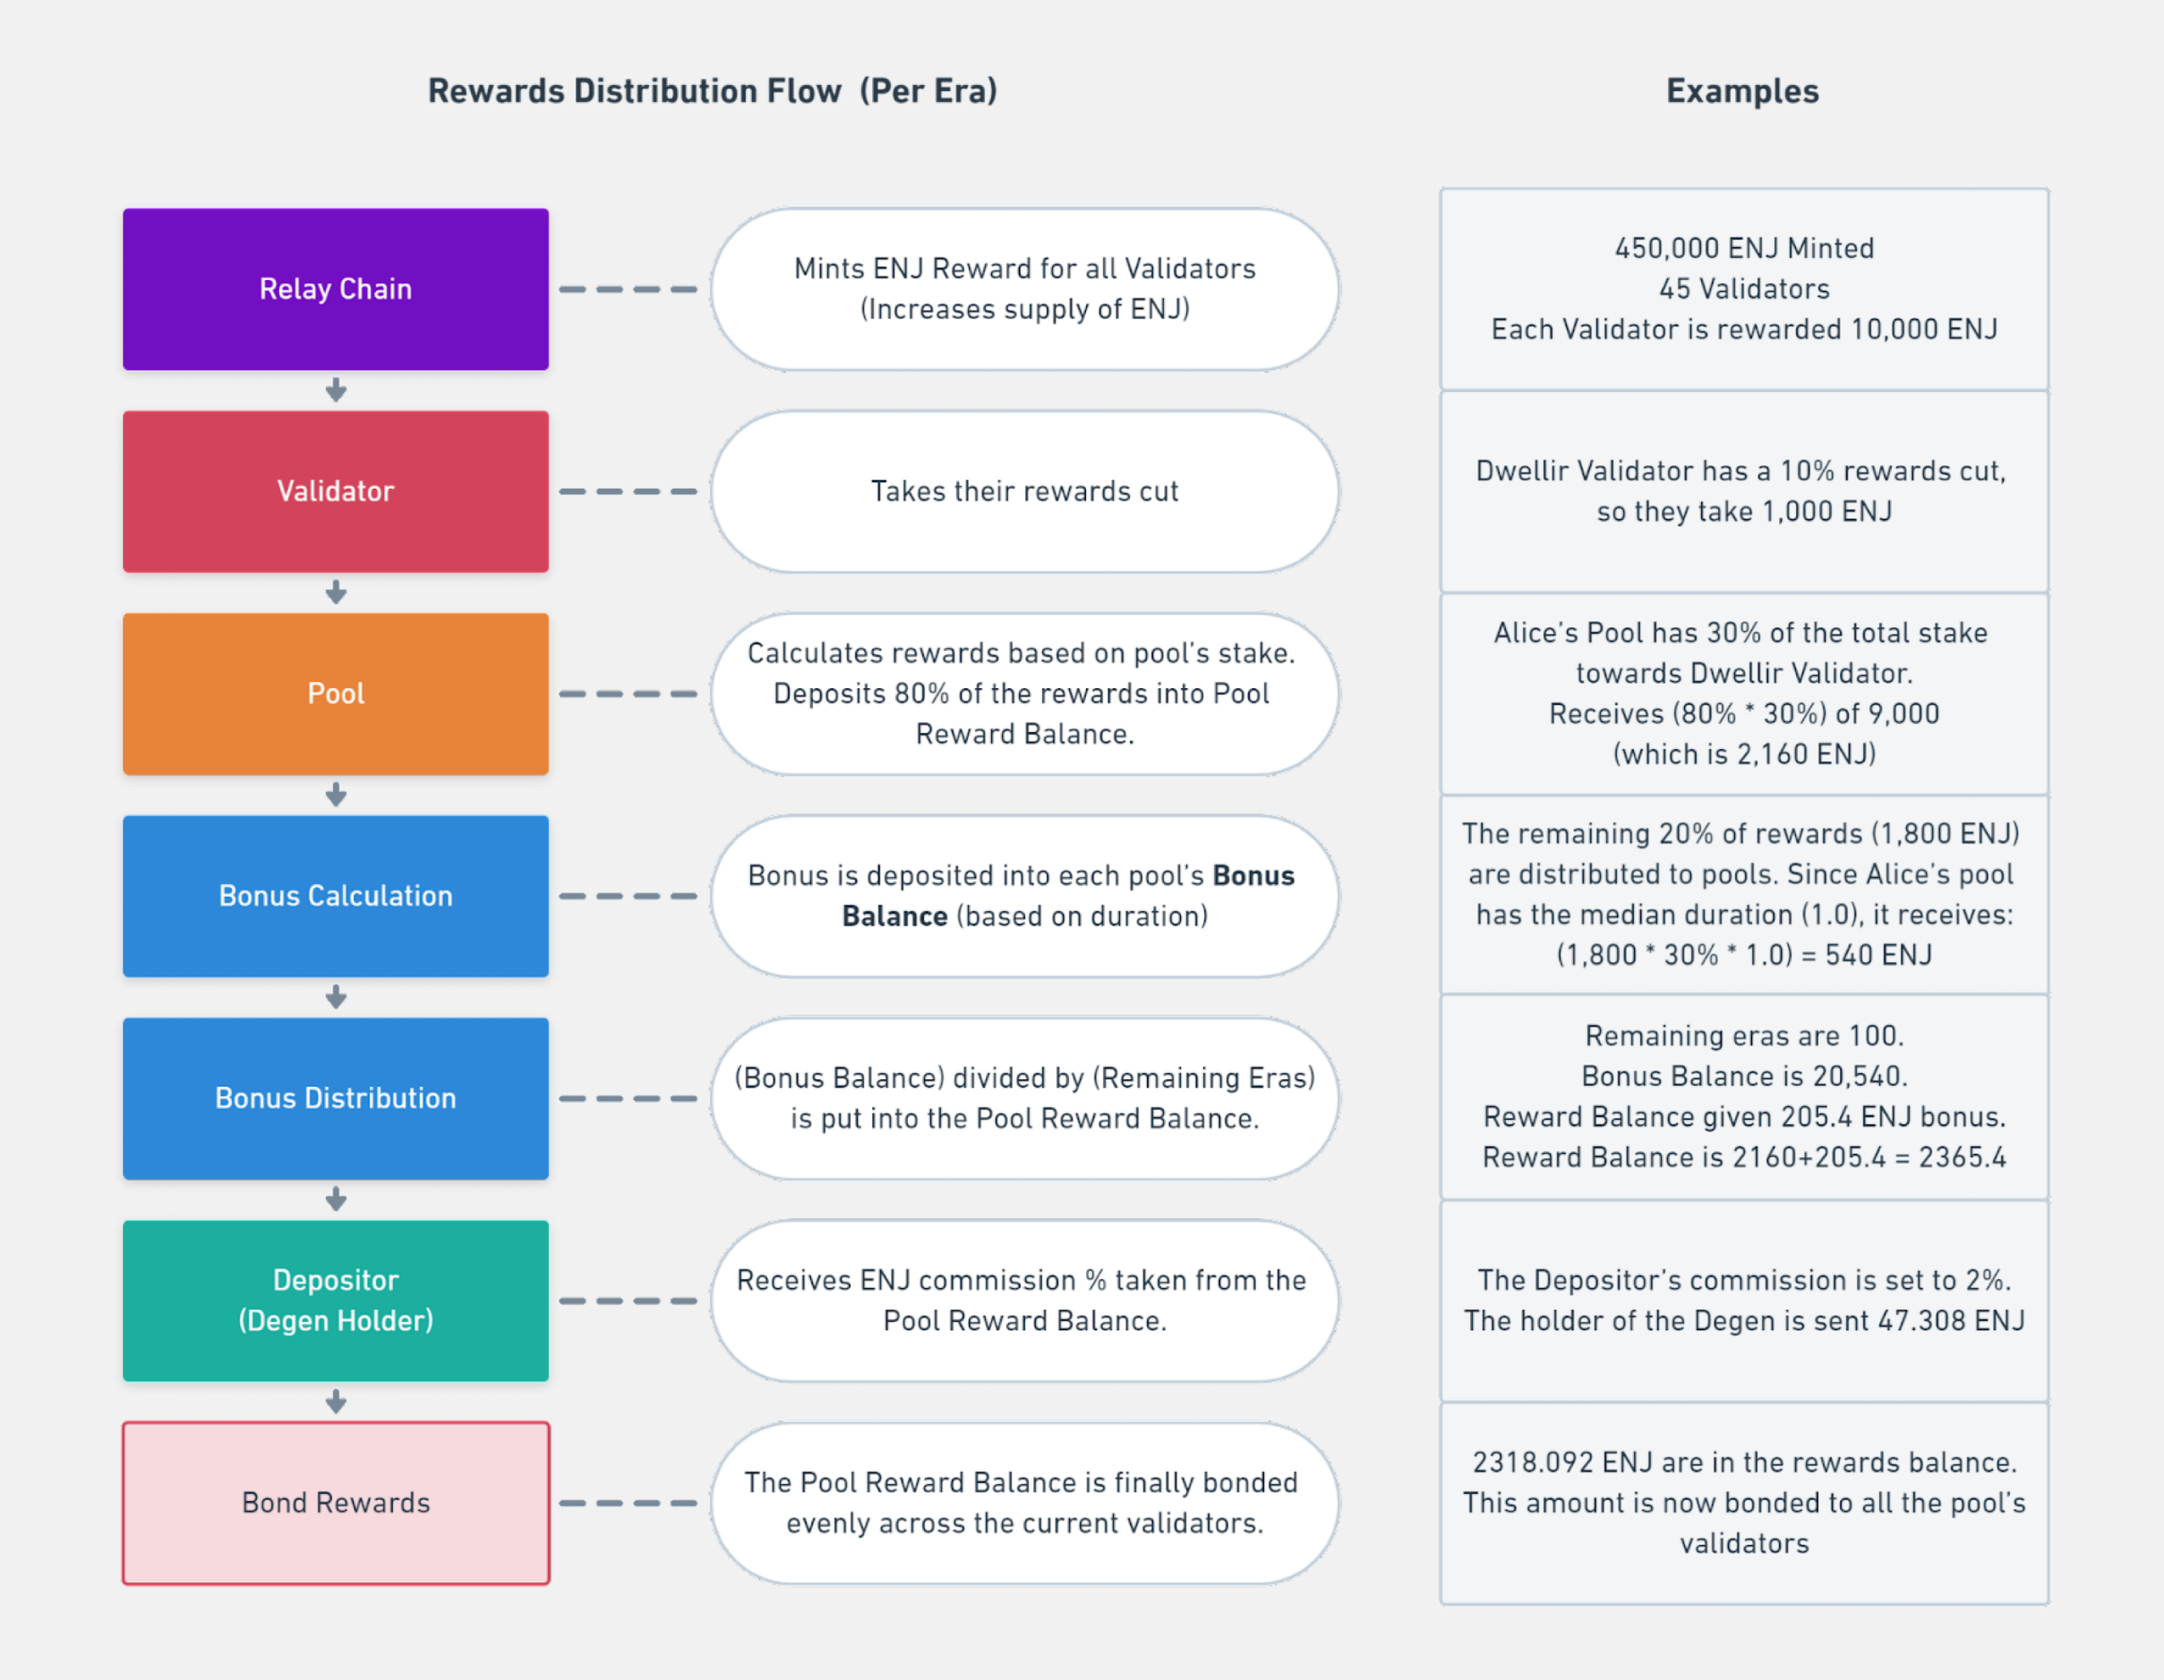
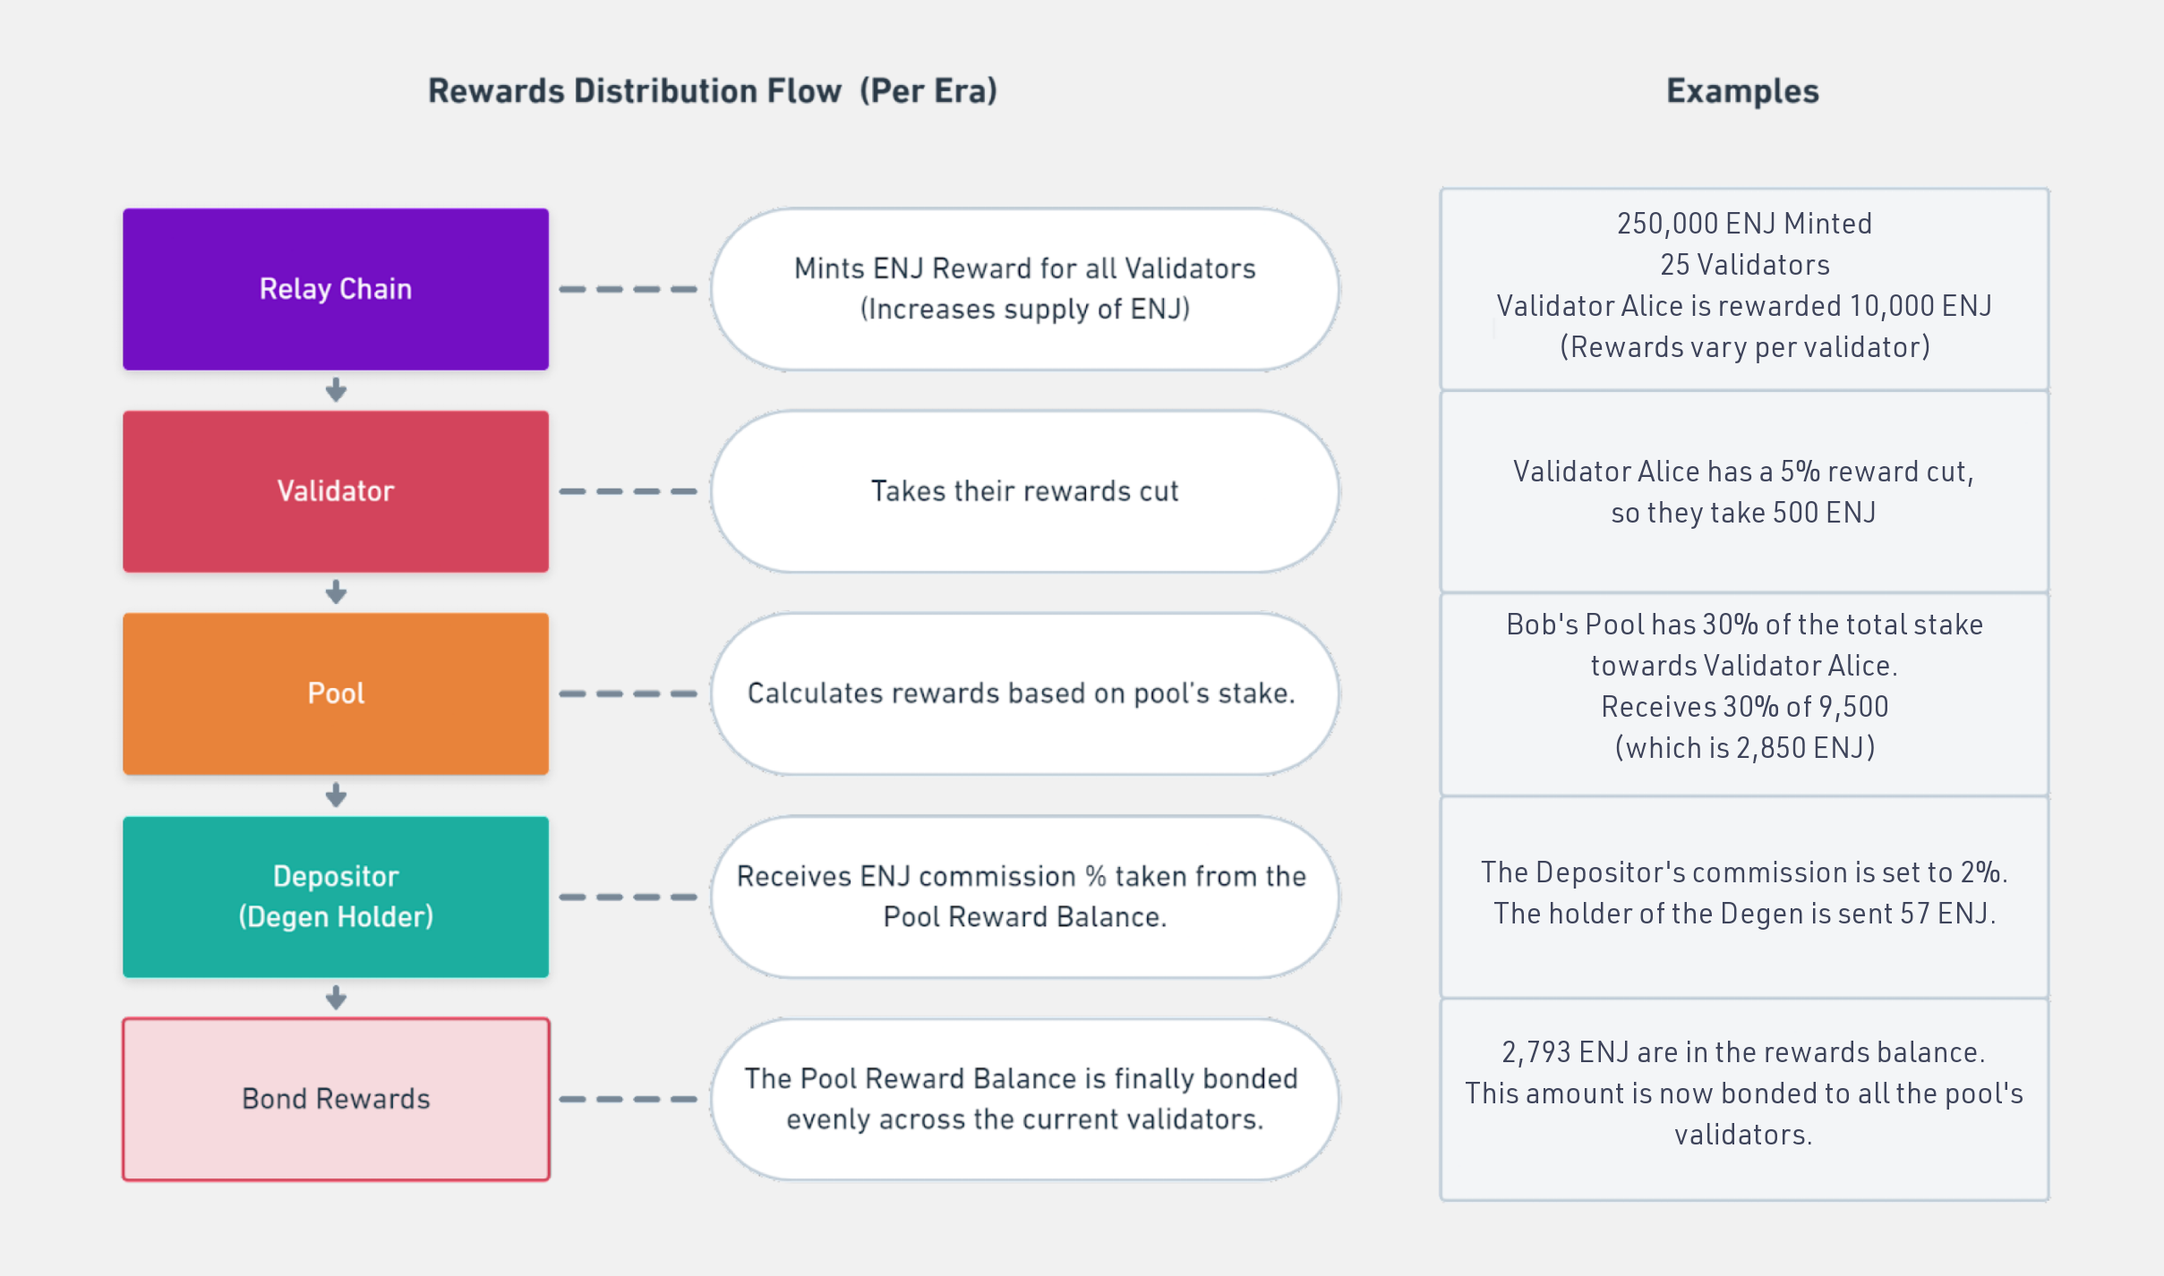
Removed staking bonus since it's removed in the Sentosa chain upgrade (#22)

diff --git a/docs/04-enjin-blockchain/02-enjin-relaychain/01-validator-staking.md b/docs/04-enjin-blockchain/02-enjin-relaychain/01-validator-staking.md
@@ -4,8 +4,10 @@ slug: "validator-staking"
 ---
 This is an overview of staking on Enjin Relaychain, known as liquid staking.
 
-:::info The Enjin Blockchain Console
-Use [console.enjin.io](https://console.enjin.io/) to use the user interface referenced in this document.
+:::info Staking Interfaces
+- **[NFT.io](https://nft.io):** Use NFT.io for a simplified experience. It provides a convenient, user-friendly interface to manage your stake and nomination pools.
+- **[Enjin Console](https://console.enjin.io/)**: For advanced features and the full user interface referenced in this document, use [console.enjin.io](https://console.enjin.io/).
+  - *Note:* Ensure you connect to the **Enjin Relaychain** network in the top left corner, as staking takes place on the Relaychain.
 :::
 
 ## Concepts
@@ -15,7 +17,7 @@ Use [console.enjin.io](https://console.enjin.io/) to use the user interface refe
 - **Liquid staking -** a token is received that represents the user's stake. The staked token can be used (is liquid) while the user is staked. It is minted when the user stakes and burned when they unstake. It can also be exchanged for the real token.
 - **Validator -** Provides security for the network and receives rewards for doing so. On Enjin, these rewards are distributed to nomination pools. (A list of active validators can be seen on [Subscan](https://enjin.subscan.io/validator).)
 - **Nominator -** The account that chooses a validator to stake with. In the case of Enjin, this is the nomination pool's account.
-- **Commission -** A percentage of the rewards taken for offering a service. On Enjin, a commission can be taken by both the validator and the holder of the Degen NFT.
+- **Commission -** A percentage of the rewards taken for offering a service. This can be either or both: a commission set by a validator, for their contributions to progressing and securing the network; and/or a commission set by a nomination pool owner, for having created the pool for which the active validator(s) were selected and the user(s) of the pool benefited.
 
 ## Nomination Pools vs Direct Staking
 
@@ -26,7 +28,7 @@ On Enjin, we use nomination pools to handle staking due to the increased simplic
 With nomination pools, there is one account that multiple users put their funds into. This account acts as the nominator and receives the rewards. The liquid token, sENJ, is used to represent a user's stake in the pool.
 
 - **Low minimum (1 ENJ) -** pools can have lower minimums per user because all of the pool's funds are staked together
-  Easy to use - users only need to choose a pool, no need to choose validators
+- **Easy to use** - users only need to choose a pool, no need to choose validators
 - **Receive liquid token -** a liquid token, sENJ, is received that represents the user's stake. This can be transferred or even exchanged for ENJ
 - **Immediate exit -** due to the liquid token, the user can exit immediately by exchanging their sENJ for ENJ
 
@@ -55,7 +57,7 @@ Direct staking is not supported on Enjin. This information is just for compariso
 There are three tokens relevant to staking:
 
 - **ENJ -** ENJ is the native token of the Enjin network. It is the token staked in the pool.
-- **sENJ -** sENJ is the liquid token that represents staked ENJ. It is minted when ENJ is staked and burned when ENJ is unstaked. It can also be exchanged for ENJ through the exchange pallet.
+- **sENJ -** sENJ is the liquid token that represents staked ENJ. It is minted when ENJ is staked and burned when ENJ is unstaked. It can also be exchanged for ENJ through the `stakeExchange` pallet.
 - **Degen Token -** The degen token is an NFT in a special collection. It is required to create a pool and is also used to manage the pool. The owner of this NFT can optionally receive a commission. Each token is only usable in one pool at a time.
 
 ![](/img/components/enjin-relaychain/3.png)
@@ -83,33 +85,14 @@ Here's an example to show the relationship between ENJ and sENJ. The important t
 
 ![](/img/components/enjin-relaychain/5.jpg)
 
-## Bonus Cycle
-
-There are two balances in a pool.
-
-- reward balance - rewards from the pool
-- bonus balance - part of the rewards that are held and distributed in cycles
-
-80% of the rewards are distributed immediately, 20% are put into the bonus balance. Bonuses are calculated per validator. As the graphic shows, the 20% is collected at the beginning of the payout, then it is distributed to each pool's bonus account. Pools with longer bonus cycles get more bonus.
-
-![](/img/components/enjin-relaychain/6.png)
-
-Each era, some amount of bonus is distributed from each pool's bonus account to its rewards account. This amount changes depending on the pool's bonus cycle. A small amount of bonus is distributed at the beginning of the cycle, but at the end, each era distributes a large amount of bonus. By the end of the cycle, the whole bonus is distributed, and the cycle restarts.
-
-![](/img/components/enjin-relaychain/7.png)
-
 ## Payouts
 
-Payouts do not happen automatically. The payout_rewards extrinsic should be called once per validator per era. This extrinsic does two things:
+Reward payouts are automated by validators, eliminating the need for manual intervention. However, understanding the distribution logic is helpful:
 
-1. Collect rewards
-   1. For the era it is called in, it collects the staking rewards from the validator. As stated above, some of this goes directly to the reward account. The rest goes through several calculations some portion goes into each pool's bonus account.
-2. Distribute rewards
-   1. The reward distribution happens for the previous era, so it's always one era behind. It is done this way because it needs to wait for the pools to collect rewards from all validators. It does the following:
-      1. If the pool has reached the end of its cycle, it cycles the pool
-      2. Sends bonus for era from the bonus account to the rewards account
-      3. Sends reward commission to the degen token holder
-      4. The pool's reward balance is staked (reinvested) so that rewards will be as high as possibl
+1. **Reward Collection:** Staking rewards are collected from the validator into the reward account for the current era.
+2. **Reward Distribution:** Rewards are distributed for the *previous* era (one era lag) to ensure all validator rewards are fully collected first. This stage involves:
+   1. Sending the commission to the Degen token holder.
+   2. Staking (reinvesting) the pool's remaining reward balance to maximize future returns.
 
 ![](/img/components/enjin-relaychain/8.png)
 
@@ -137,8 +120,6 @@ These are the extrinsics that will be called by users (members) of the pool.
 
 ### Permissionless
 
-These extrinsics can be called by anyone. Some of them can only be called when the pool is in the `Destroying` state.
-
-- **`payout_rewards`** - This can be called by anyone, and should be called once per validator per era. It distributes the payouts and handles calculations like bonuses and commissions.
-- **`unbond_deposit`** - Unbonds the deposit. Only callable after the pool is destroyed and all members have left the pool.
-- **`withdraw_deposit`** - Withdraws the deposit. Can only be called after the deposit is unbonded. The pool will be destroyed (deleted) after this is called successfully.
+These extrinsics can be called when the pool is in the `Destroying` state, by anyone.
+* **`unbond_deposit`** - Unbonds the deposit. Only callable after the pool is destroyed and all members have left the pool.
+* **`withdraw_deposit`** - Withdraws the deposit. Can only be called after the deposit is unbonded. The pool will be destroyed (deleted) after this is called successfully.

diff --git a/docs/02-guides/02-blockchain/01-relaychain/04-joining-nomination-pools.md b/docs/02-guides/02-blockchain/01-relaychain/04-joining-nomination-pools.md
@@ -22,7 +22,6 @@ You should look out for the following criteria when choosing a nomination pool:
 - **Capacity -** shows the maximum amount of sENJ that the pool can issue. If the capacity is reached, you will not be able to stake ENJ in the pool.
 - **Nominees -** displays the validators that the pool is nominating. Remember that the pool will only receive rewards if their nominated validators are selected to produce a block. If the validator is slashed for any reason (e.g. being offline for too long), the funds nominated by pool will be slashed as well.
 - **Members -** shows the current participants for each nomination pool. More members can provide higher stake, but it also means that rewards will be split between more people.
-- **Bonus Cycle -** when pool information is expanded, you can see the `start era` and `end era` number of the bonus cycle, during this period the bonus rewards are tracked for the pool and its members.
 
 ![](/img/components/enjin-relaychain/21.png)
 
@@ -58,7 +57,10 @@ Every era the rewards are generated for NPoS participants, creating inflation. T
 
 ## Leaving a nomination pool
 
-If you wish to leave a nomination pool, you can do so by clicking on the `Unbond` button that is displayed under each expanded pool. Please note that unbonding period is not immediate and the bonus cycle needs to completely pass before funds can be withdrawn using `Withdraw unbonded` button.
+To leave a nomination pool, expand the pool details and click `Unbond`.
+:::note
+You must wait 28 eras for the unbonding period to complete. Once finished, click `Withdraw unbonded` to retrieve your funds.
+:::
 
 ![](/img/components/enjin-relaychain/28.png)
 

diff --git a/docs/02-guides/02-blockchain/01-relaychain/02-staking-integrtion-guide.md b/docs/02-guides/02-blockchain/01-relaychain/02-staking-integrtion-guide.md
@@ -153,18 +153,7 @@ console.log(Object.fromEntries(pools))
         },
         "tokenId": 1,
         "capacity": "0x00000000001a784379d99db420000000",
-        "bonusCycle": {
-            "previousStart": 98,
-            "start": 219,
-            "end": 339,
-            "pendingDuration": null
-        },
         "creationBlock": 1654079,
-        "bonusesPaid": [
-            164,
-            ...
-            247
-        ],
         "name": "0x"
     },
     ...
@@ -202,21 +191,7 @@ console.log(pool)
     },
     "tokenId": 1,
     "capacity": "0x00000000001a784379d99db420000000",
-    "bonusCycle":
-    {
-        "previousStart": 98,
-        "start": 219,
-        "end": 339,
-        "pendingDuration": null
-    },
     "creationBlock": 1654079,
-    "bonusesPaid":
-    [
-        163,
-        164,
-        165,
-        ...
-    ],
     "name": "0x"
 }
 ```
